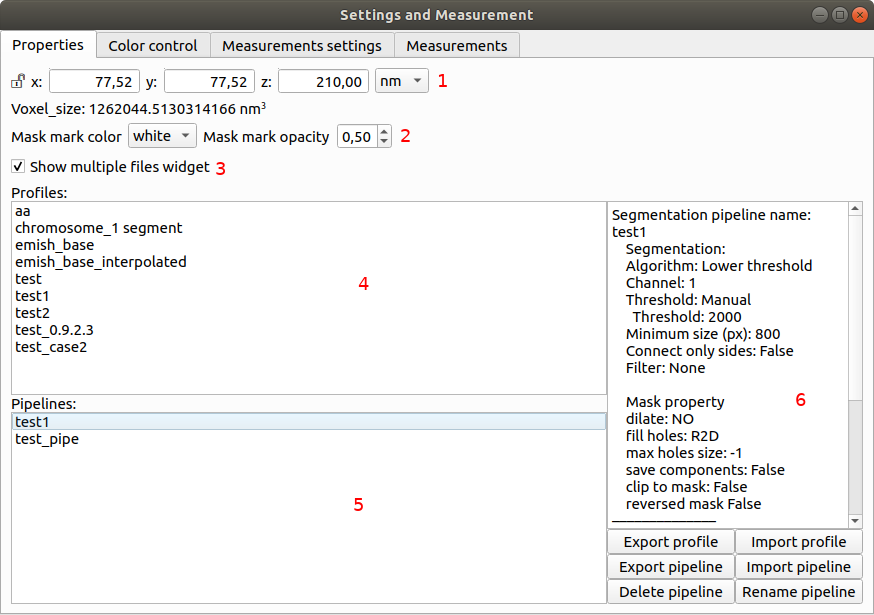
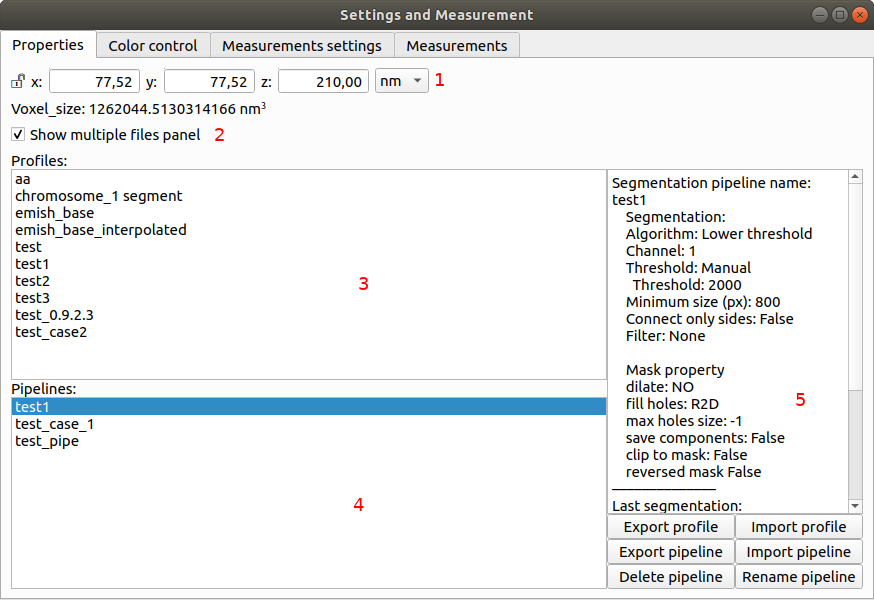
upgrade screenshots

diff --git a/tutorials/Interface-overview/interface-overview.rst b/tutorials/Interface-overview/interface-overview.rst
@@ -274,11 +274,10 @@ Properties
    :alt: View on Properties Tab in Settings and Measurement.
 
 1.  Image spacing with units.
-2.  Control of mask presenting. Its color and opacity.
-3.  If show Multiple files panel in main window.
-4.  List of segmentation profiles.
-5.  List of segmentation pipelines.
-6.  Preview of selected Profile/pipeline.
+2.  If show Multiple files panel in main window.
+3.  List of segmentation profiles.
+4.  List of segmentation pipelines.
+5.  Preview of selected Profile/pipeline.
 
 Additionally, bellow preview there are 6 buttons.
 We think that they are self explanatory with addition that,
@@ -422,7 +421,7 @@ Zoom of image can be also changed by Ctrl+Mouse scroll.
     If image contains time data, then similar
     slider will be visible on left part of image.
 
-In `Mask Segmentation GUI`_ elements 5, 6 and 7 are place above
+In `Mask Segmentation GUI`_ elements 5 and 6 are place above
 Algorithm Parameters part.
 
 .. image::  images/range_control.png
@@ -431,8 +430,8 @@ Algorithm Parameters part.
 1.  Set boundaries for minimum maximum brightness for given channel.
 2.  Use boundaries for presenting current channel.
     If is checked then lock is present right to checkbox |fixed_range|.
-3.  Use gaus for presenting current channel.
-    If is checked then proper symbol is present right to checkbox |gauss|.
+3.  Use filter (Median or gauss) for presenting current channel.
+    If is checked then proper symbol is present right to checkbox |filter|.
 
 Color control
 ~~~~~~~~~~~~~
@@ -481,14 +480,22 @@ After select color double click on bottom bar to create marker.
 Markers can be moved by drag and drop or removed by double click on them.
 Values between markers are created with linear interpolation.
 
-
 Create labels
 ^^^^^^^^^^^^^
 .. image:: images/create_labels.png
    :alt: View on labels map create widget.
 
-After select color use **Add color** buton.
+After select color use **Add color** button.
 Color order can be changed by drag and drop.
+
+Create labels
+^^^^^^^^^^^^^
+.. image:: images/color_mask_marking.png
+   :alt: Select color and opacity of mask marking.
+
+After select color use **Change mask color** button.
+Mask marker opacity can be changed with spin box in lower right corner.
+
 
 Algorithm parameters
 ~~~~~~~~~~~~~~~~~~~~
@@ -562,7 +569,7 @@ See image below showing shortcut Properties for ROI Analysis.
 .. |radio_button| image:: images/radio_button.png
 .. |channel_select| image:: images/channel_select.png
 .. |fixed_range| image:: images/fixed_range.png
-.. |gauss| image:: images/gauss.png
+.. |filter| image:: images/gauss.png
 .. |batch_mask_from_file| image::  images/batch_mask_from_file.png
    :alt: Load mask from file.
 .. |batch_mask_from_segmentation| image::  images/batch_mask_from_segmentation.png
